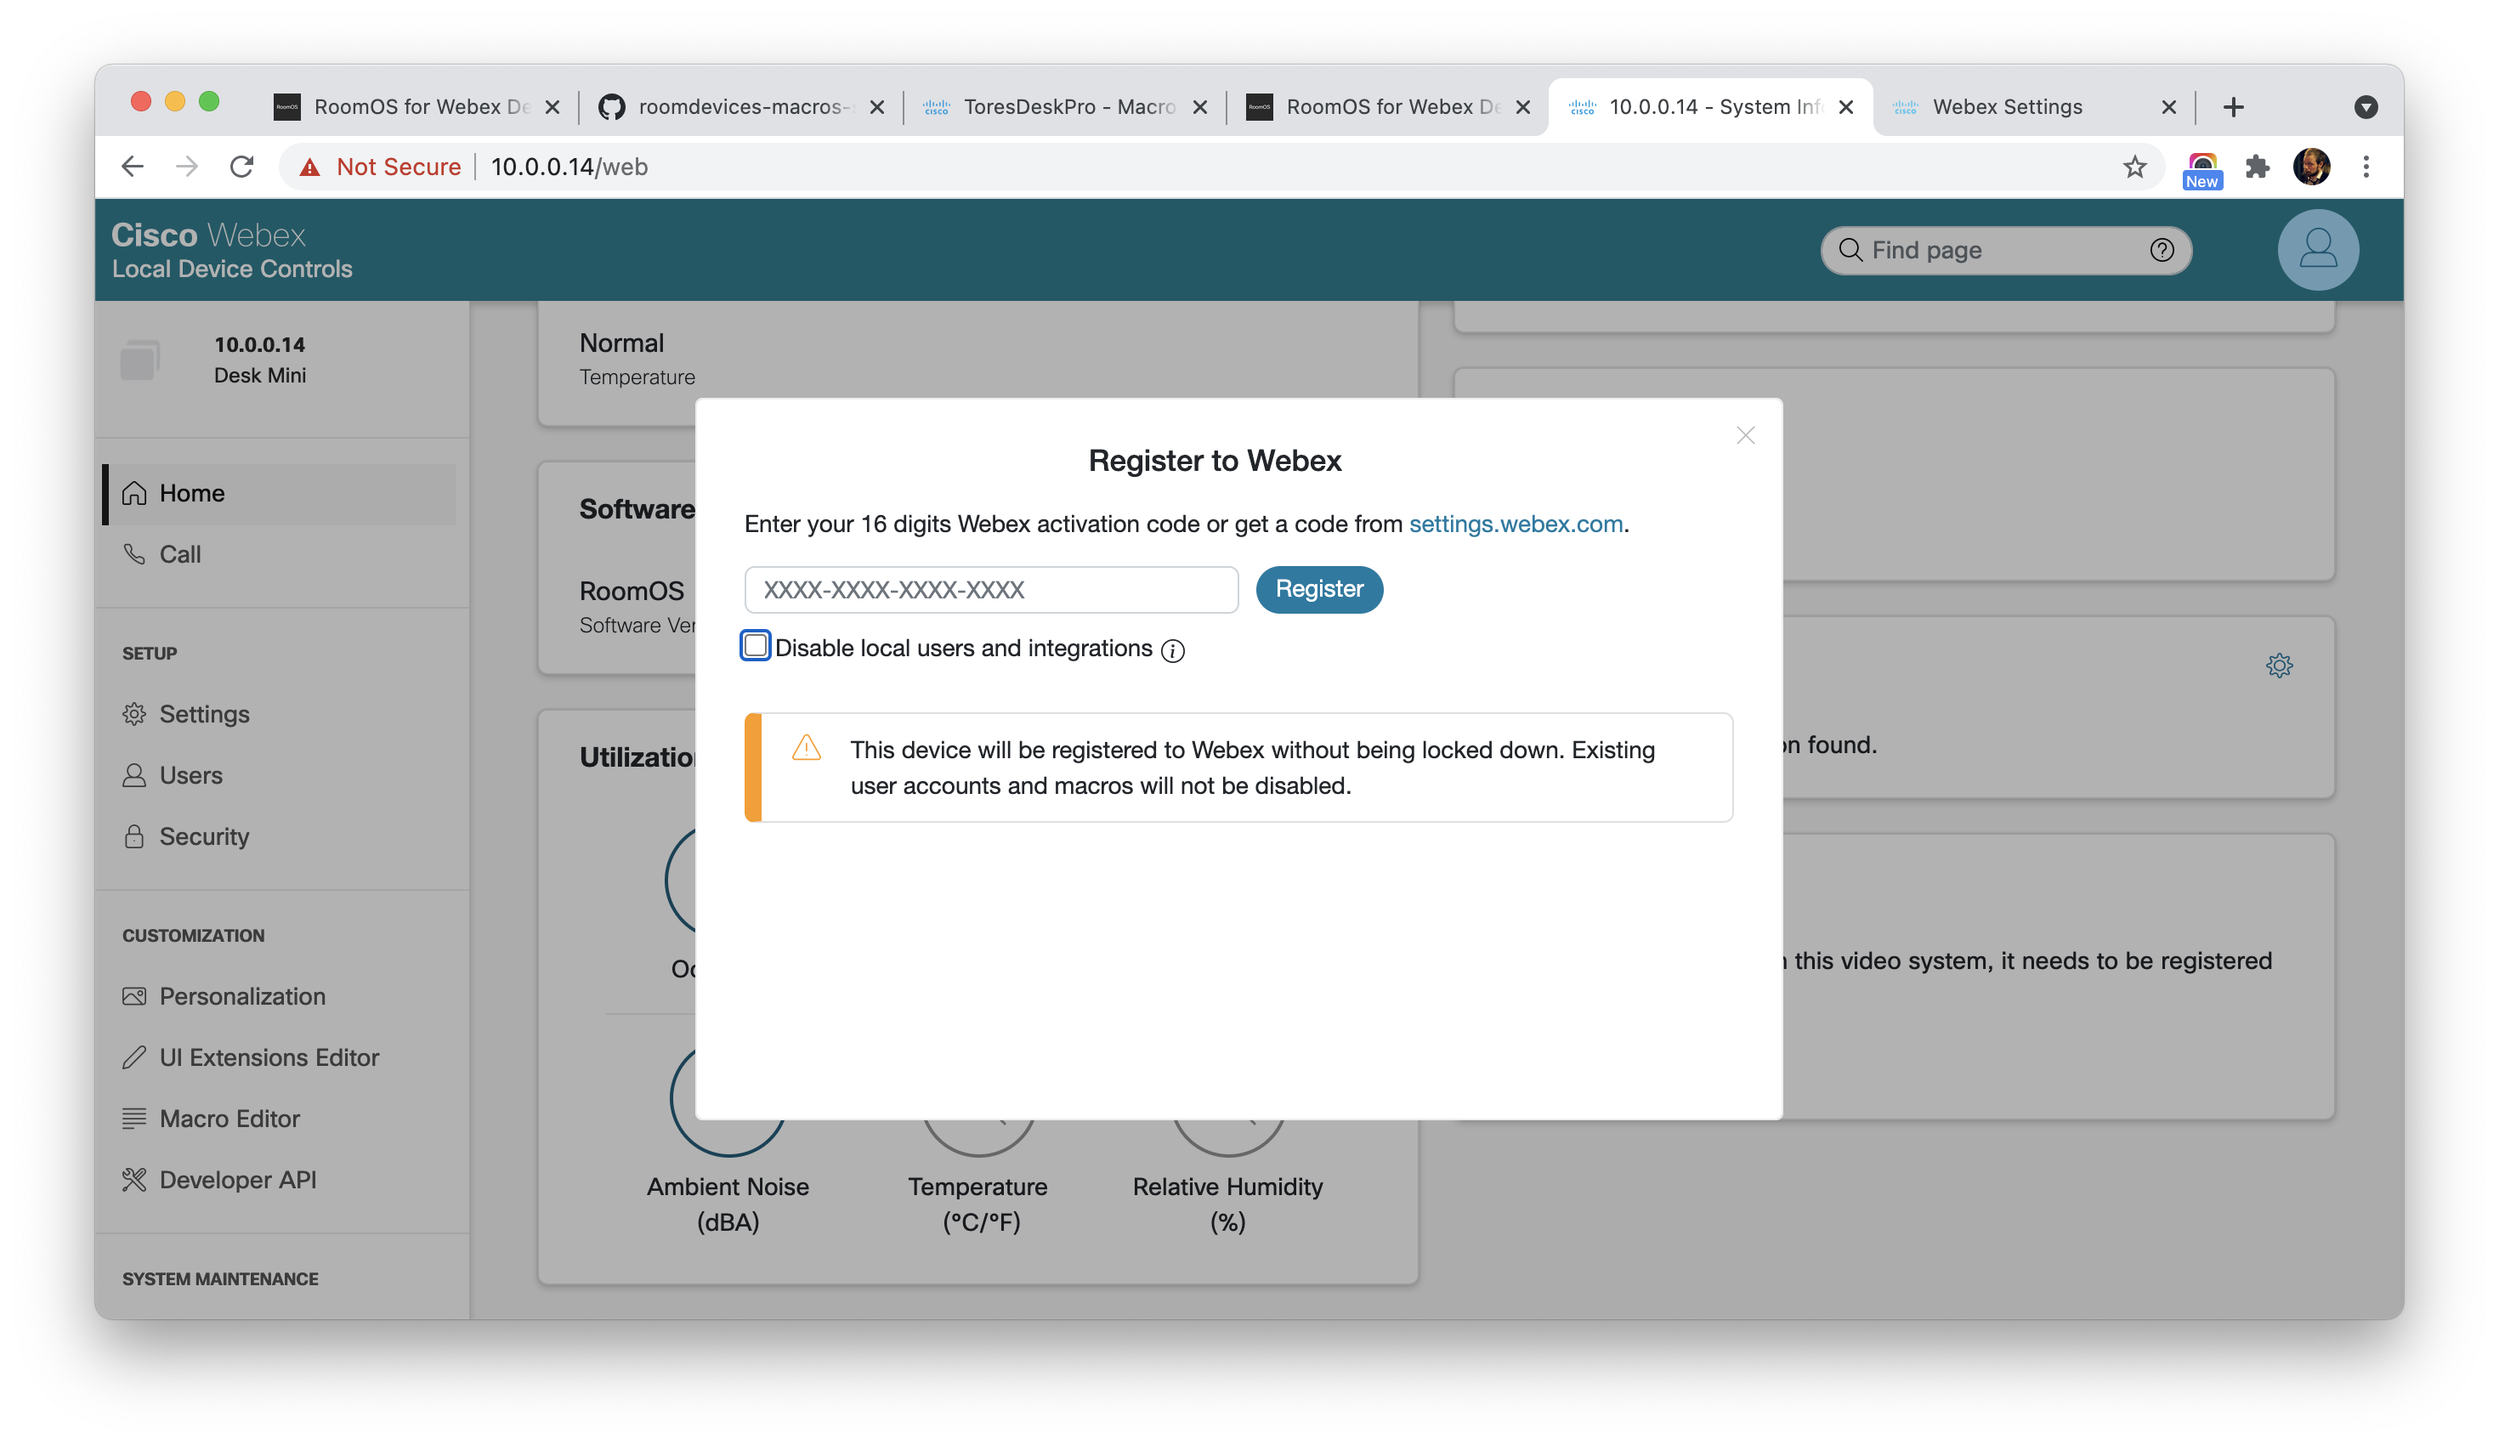
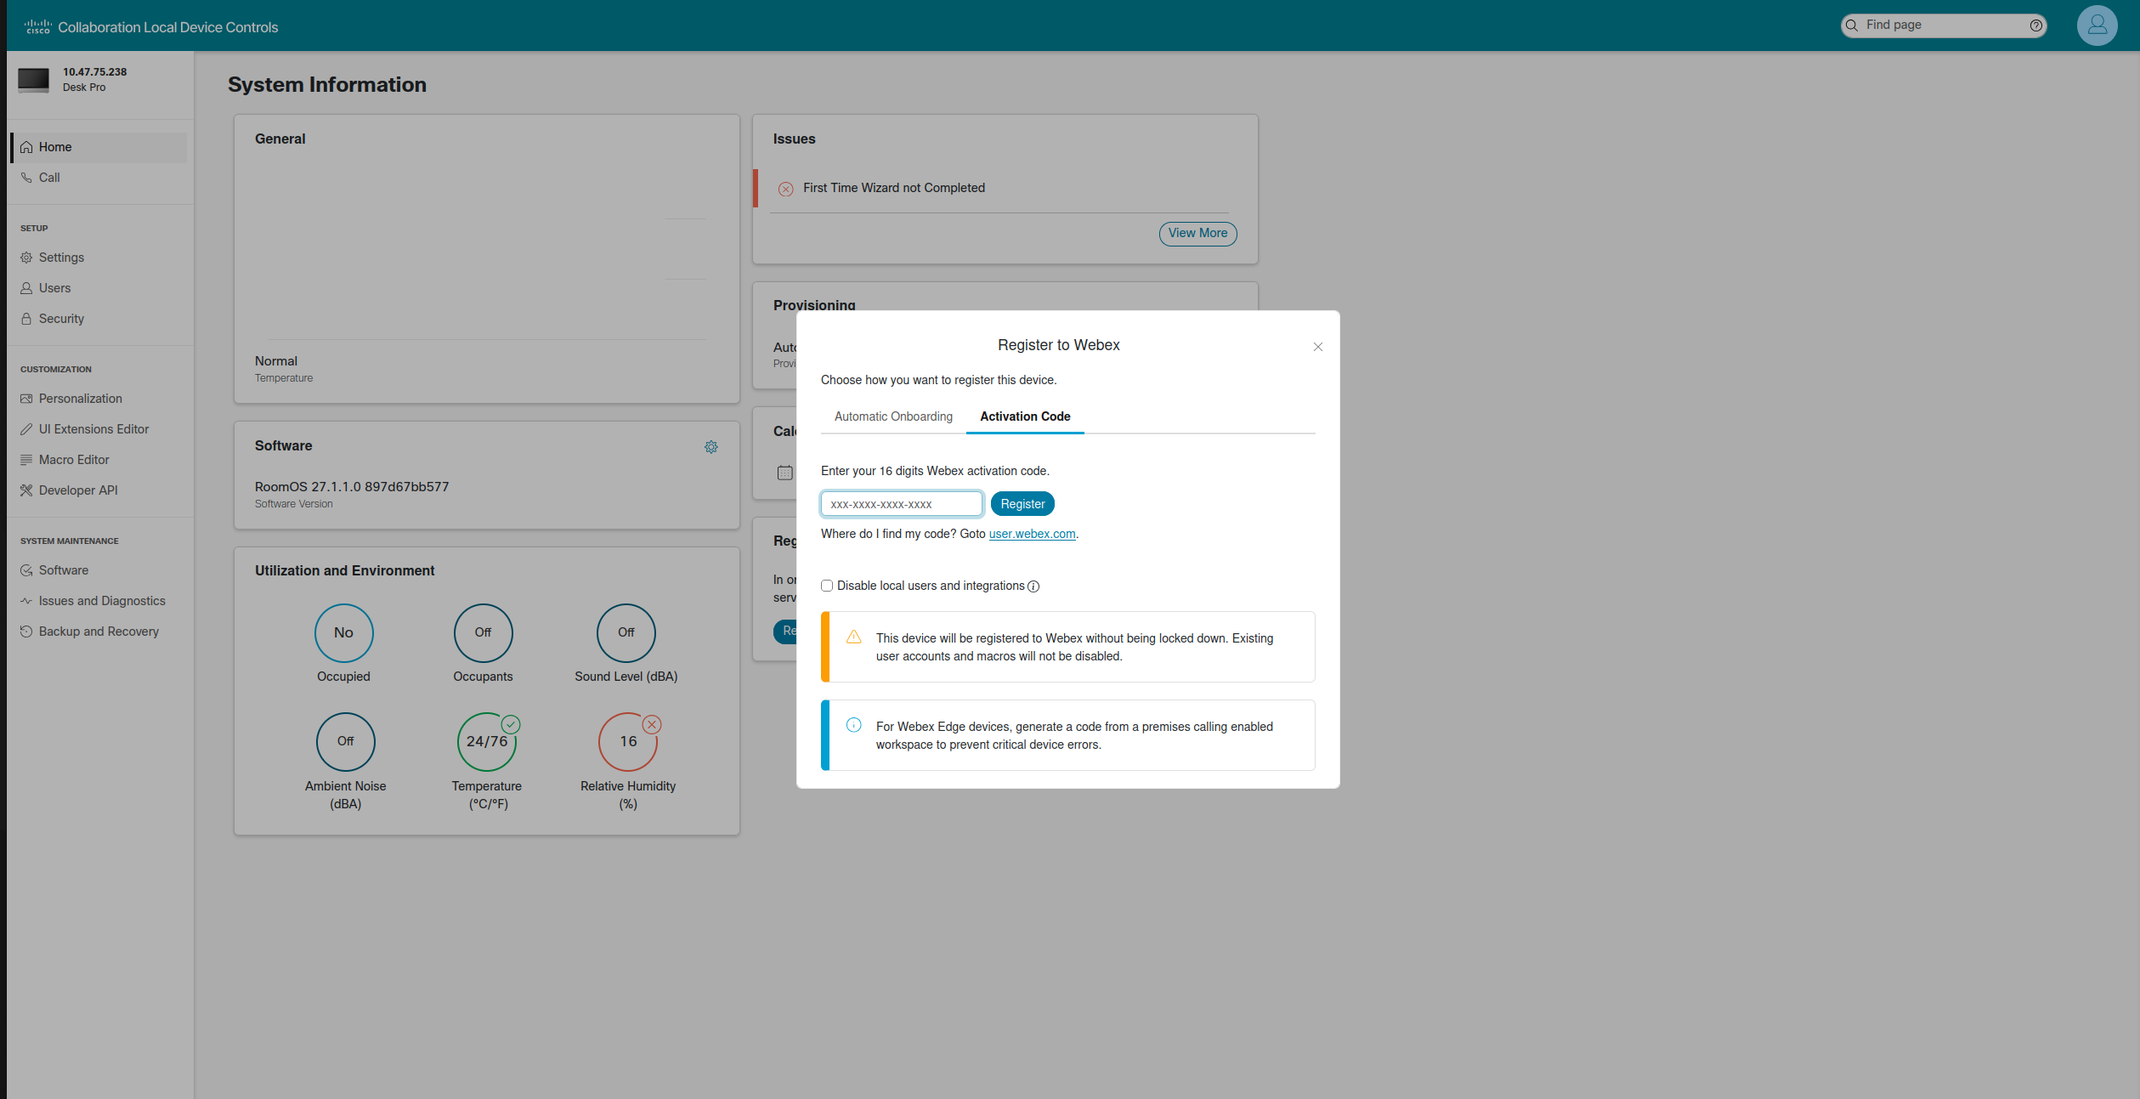
local admin guide: update text and images
process now requires you to pick an admin password immediately

diff --git a/doc/TechDocs/LocalAdminUser.md b/doc/TechDocs/LocalAdminUser.md
@@ -16,7 +16,6 @@ This guide is also available as a step-by-step video:
     loading="lazy" allowfullscreen style="position:absolute; top:0; left: 0"></iframe>
 </div>
 
-
 <div style="color: red; background: #ffe8e3; padding: 1em">
 Warning: Do NOT follow this procedure if your device is registered on Webex Edge.
 </div>
@@ -37,9 +36,14 @@ If your video device is straight out of the box, you need to boot it up first, c
 
 Before you start, remember to check that you **can** create a registration code as you'll need to factory reset the video device. If you skip this step, you could end up with a video device that won't work.
 
-* Go to **settings.webex.com**, log in.
-* Tap **My devices > Generate Activation Code**.
-* Copy and save the code you got. You will need this to re-register your device.
+- Go to **settings.webex.com**, log in.
+- Tap **My devices > Generate Activation Code**.
+- Copy and save the code you got. You will need this to re-register your device.
+
+💡 If you are using the Webex app, you can also create a registration code here:
+
+- Go to **Settings > Devices > Activate a new device**
+- Click **Generate activation code**
 
 ## Factory reset your device
 
@@ -47,9 +51,9 @@ Go to the settings page on your device, and write down its IP address. If you're
 
 <img src="/doc/images/localadmin/factory-reset.png" />
 
-* Tap **Factory reset** on the settings page and wait for your device to reboot.
-* Tap **Start**.
-* If you are on a wireless network, connect to it.
+- Tap **Factory reset** on the settings page and wait for your device to reboot.
+- Tap **Start**.
+- If you are on a wireless network, connect to it.
 
 ```alert
 DO NOT register your device yet.
@@ -71,16 +75,9 @@ You should then see the login page of the web interface of your video device.
 
 <img src="/doc/images/localadmin/login-vega.png" />
 
-* Log in as user **admin** with no password
-* Go to **Users > Create User**
-* Choose a user name, make sure all the roles are selected
-* Set Status **Active**
-* Un-select **Require passphrase change**
-* Select a passphrase, add it again in the **Repeat passphrase** field
-* Leave **Your passphrase** field empty
-* Click **Create**. Scroll up and verify that there is a message confirming that the user was created
-
-<img src="/doc/images/localadmin/create-user.png" />
+- Log in as user **admin** with no password
+- You will be prompted to set a password for this admin user. Choose a password and remember it.
+- Select a passphrase, add it again in the **Repeat passphrase** field
 
 ## Registering your device
 
@@ -88,13 +85,13 @@ You will now register the device, but from the web admin interface instead of on
 
 <img src="/doc/images/localadmin/register-webex.png" />
 
-
 With the device's web interface:
 
-* Go to **Home**.
-* Under **Register device**, click **Register to Webex**.
-* Uncheck **Disable local users and integrations**. This means your admin user will still be active after registering your device.
-* Enter the registration code you obtained earlier, and click **Register**.
+- Go to **Home**.
+- Under **Register device**, click **Register to Webex**.
+- Select the **Activation code** tab.
+- 👉 Uncheck **Disable local users and integrations**. This means your admin user will still be active after registering your device. 👈
+- Enter the registration code you obtained earlier, and click **Register**.
 
 **Note:** If your device software is older than May 2021, the **Register device** menu may not be available. Don't worry; check the bottom of this document for an alternative solution.
 
@@ -106,7 +103,7 @@ Your device should now be registered, but might still be on the **network** page
 
 ## Verify your admin account
 
-On the web interface on your laptop, tap the avatar in the top right corner and log out, then back in with your new user.
+On the web interface on your laptop, tap the avatar in the top right corner and log out, then back in with your new user (the username is admin and the password is what you chose).
 
 🥳 Congratulations! You are now the master of your own video device. You should now be able to change wallpapers, configure advanced settings, add macros, add user interface extensions, web applications, create external integrations etc. But remember, with great power comes great responsibility.
 
@@ -116,20 +113,18 @@ On the web interface on your laptop, tap the avatar in the top right corner and 
 
 If you don't have the **Register device** button on the home screen of your device's local web interface, you can register with a command instead:
 
-* Go to **Developer API**.
-* Copy and paste the following command into the text area that says **Enter commands**.
+- Go to **Developer API**.
+- Copy and paste the following command into the text area that says **Enter commands**.
 
 <img src="/doc/images/localadmin/register-code.png" />
-
 
 ```
 xCommand Webex Registration Start ActivationCode: 0123456789 SecurityAction: NoAction
 ```
 
-* Be sure to enter the command on **one line**.
-* Replace the activation code above with the one you created. Be sure to remove any - dashes in the code if you copy and paste it.
-* Click **Execute**.
+- Be sure to enter the command on **one line**.
+- Replace the activation code above with the one you created. Be sure to remove any - dashes in the code if you copy and paste it.
+- Click **Execute**.
 
 There should now be an answer saying "1 of 1 applied succesfully".
 That means your device has been registered again, and that the user you created is not disabled.
-
